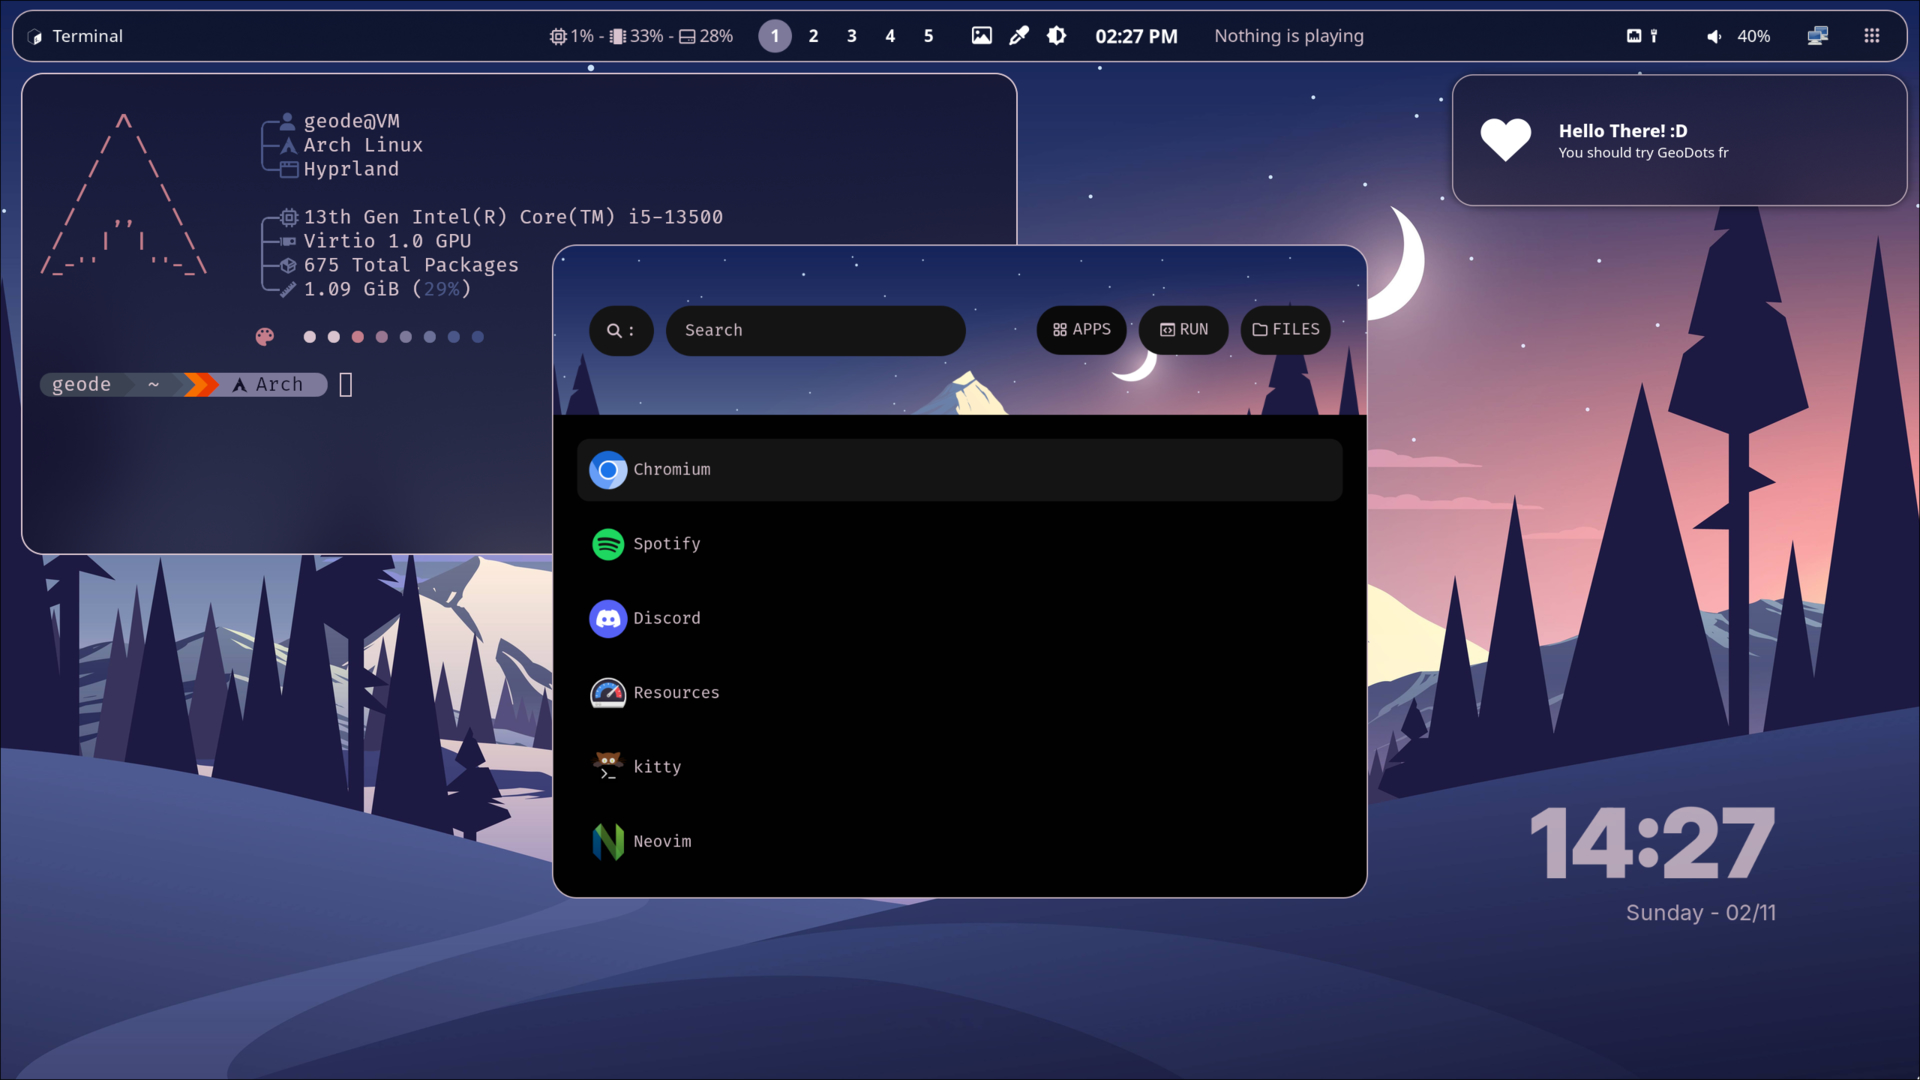
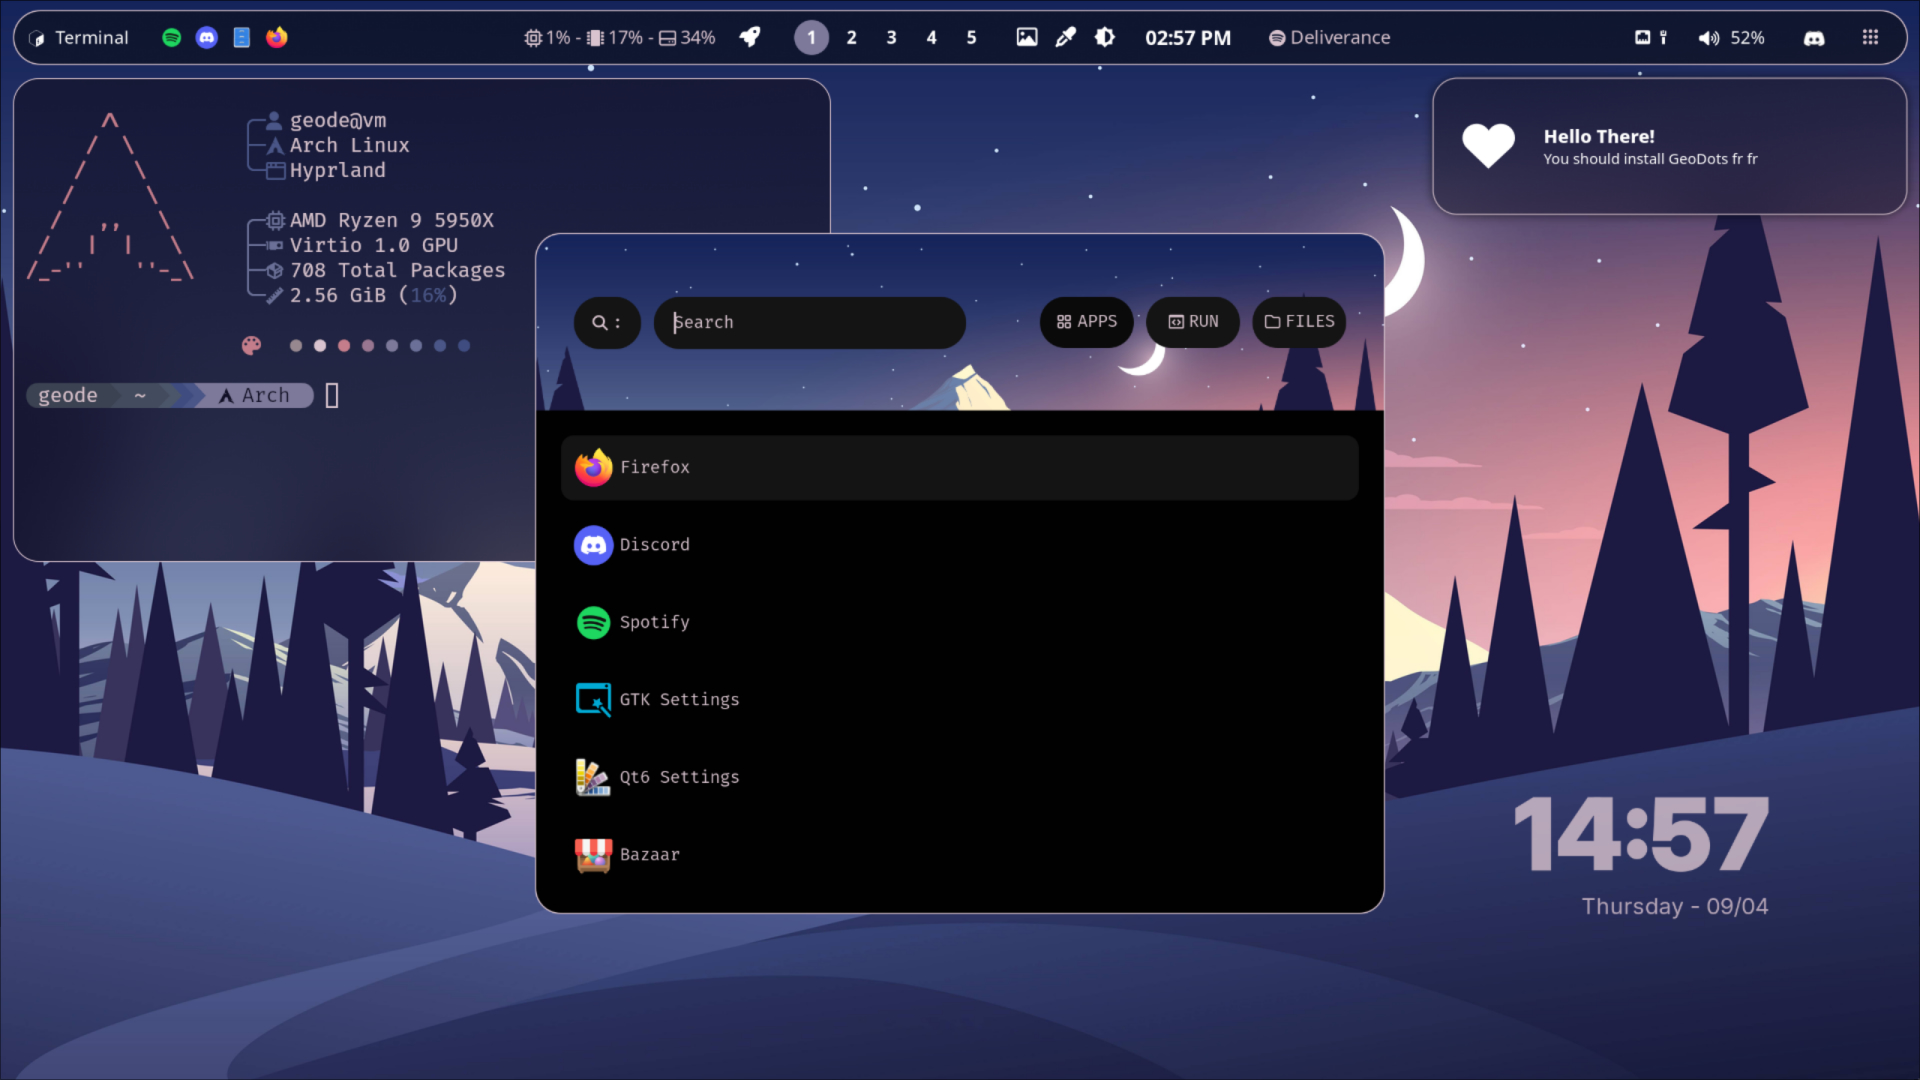
more gradient stuff idk

Changed region(s): [[0.0, 0.0, 1.0, 0.8556], [0.7812, 0.7333, 0.9375, 0.8556]]

diff --git a/assets/style.css b/assets/style.css
@@ -8,9 +8,9 @@
   --text-color: #000;
   --text-secondary: #333;
   --primary-color: #f4eae3;
-  --accent-color: #ff6200;
+  --accent-color: #ff8401;
   --accent-diminished: rgba(255, 98, 0, 0.2);
-  --accent-secondary: #ff8d01;
+  --accent-secondary: #ff6200;
   --banner: rgba(235, 235, 235, 0.5);
   --grid: rgba(218, 218, 218, 0.516);
   --btn: #fff2ec;
@@ -19,9 +19,9 @@
   --text-color: #fff;
   --text-secondary: #ccc;
   --primary-color: #150b05;
-  --accent-color: #ff6200;
+  --accent-color: #ff2701;
   --accent-diminished: rgba(255, 98, 0, 0.2);
-  --accent-secondary: #ff2701;
+  --accent-secondary: #ff8401;
   --banner: rgba(26, 21, 20, 0.5);
   --grid: rgba(33, 26, 25, 0.5);
   --btn: #291c1a;
@@ -405,6 +405,30 @@ footer .footer-email {
   left: 0;
   margin: 60px 10px;
 }
+.terminal .term-logo pre {
+  background: linear-gradient(
+    90deg,
+    var(--accent-secondary),
+    var(--accent-color),
+    var(--accent-secondary),
+    var(--accent-color)
+  );
+  background-size: 300% 300%;
+  background-position: 0% 50%;
+  -webkit-background-clip: text;
+  background-clip: text;
+  -webkit-text-fill-color: transparent;
+  color: transparent;
+  font-weight: 1000;
+  font-size: 14px;
+  animation: gradientShift 2s linear infinite;
+}
+
+@keyframes gradientShift {
+  0%   { background-position: 0% 50%; }
+  100% { background-position: 100% 50%; }
+}
+
 .terminal .term-info {
   display: flex;
   flex-direction: column;

diff --git a/index.html b/index.html
@@ -72,7 +72,7 @@
                 </div>
                 <div class="term-main">
                     <div class="term-logo">
-                        <pre style="color: var(--tcol4); font-weight: 800; font-size: 14px;">
+                        <pre>
                 -@                
                .##@               
               .####@              
